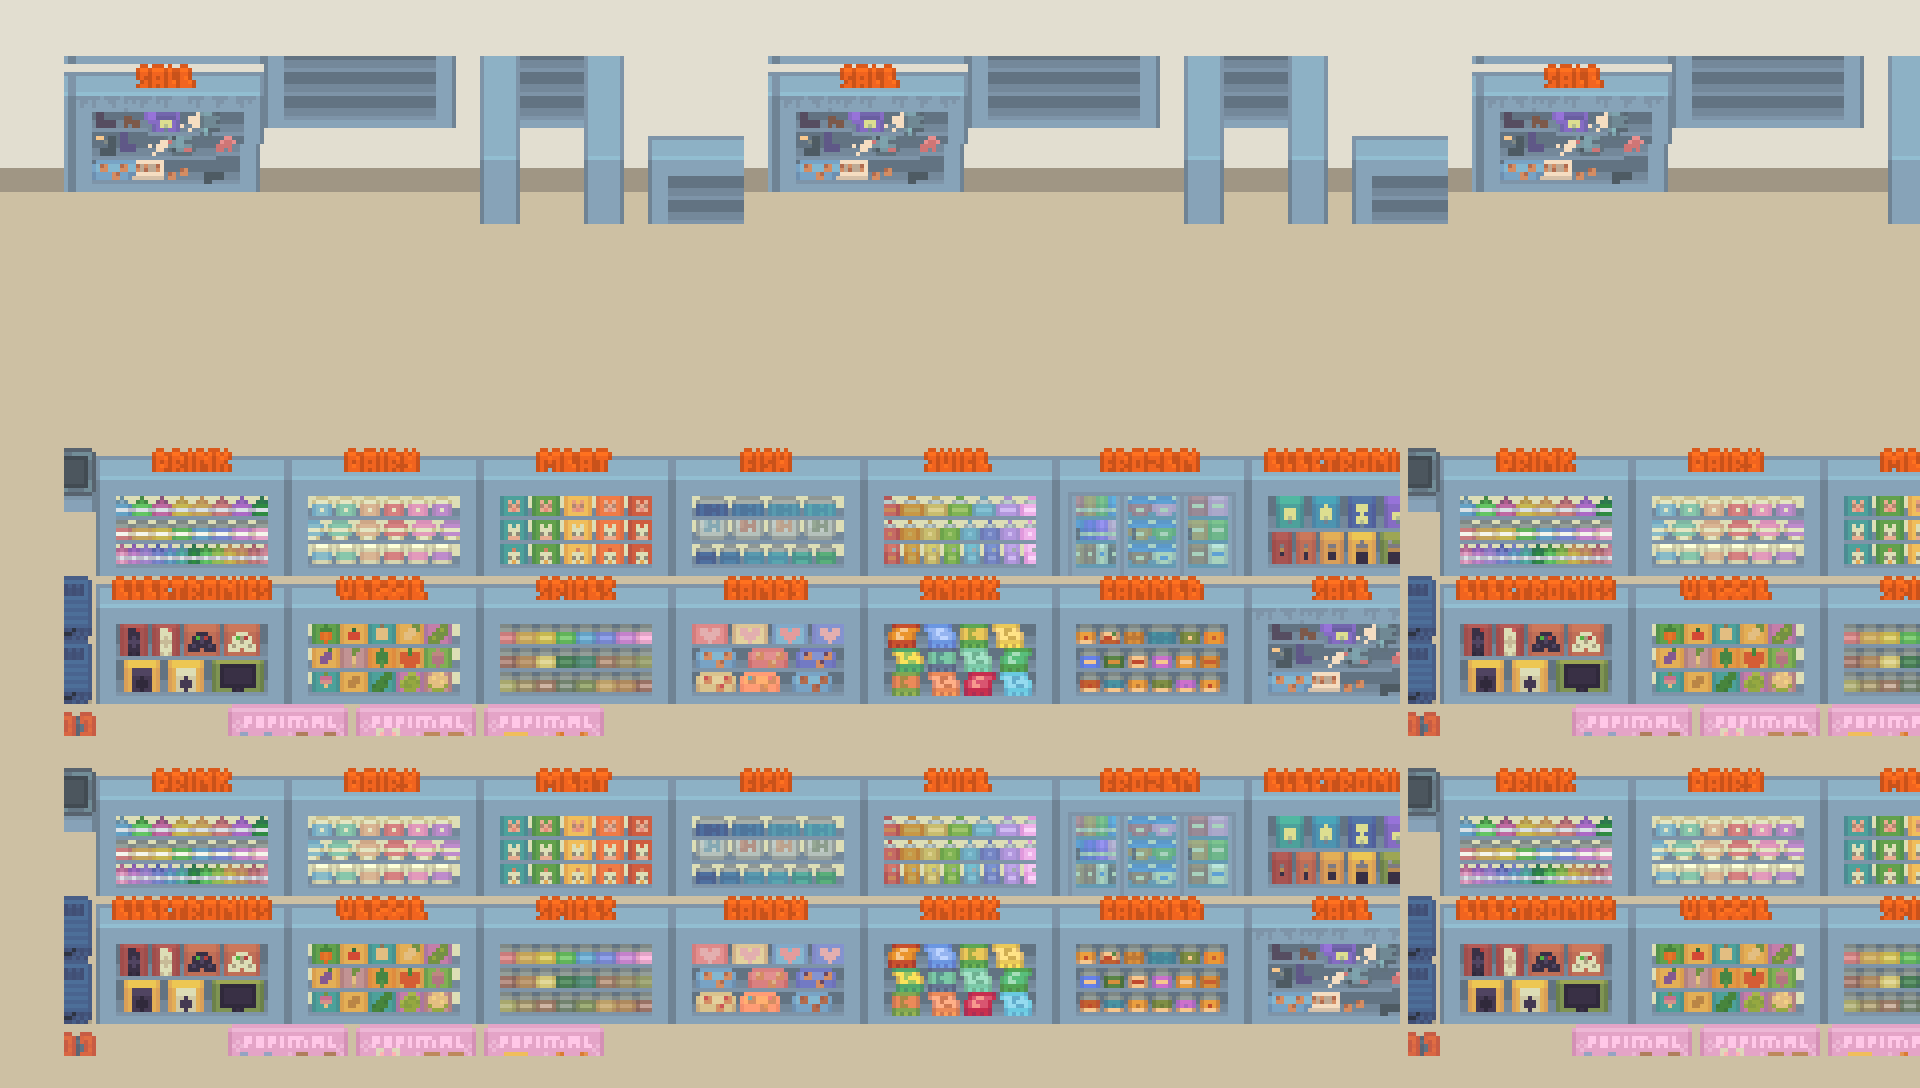
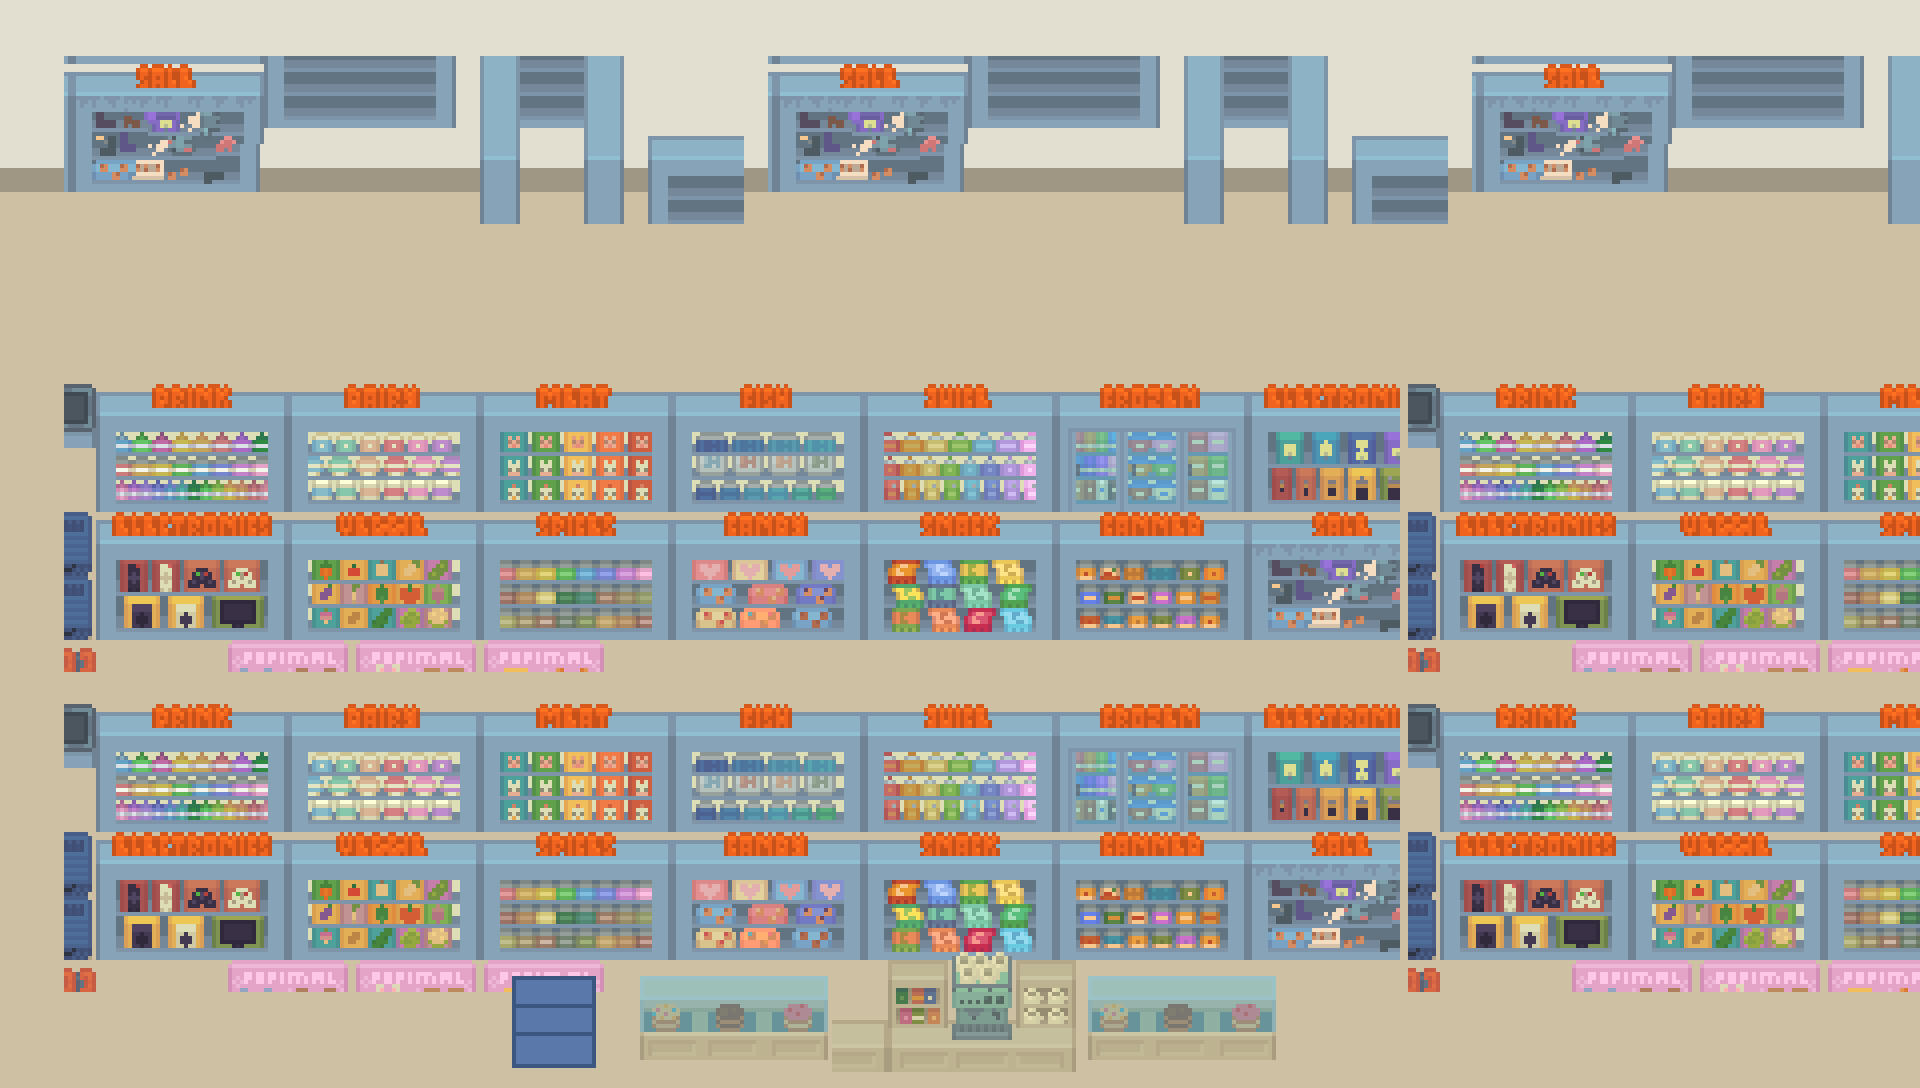
Rework scenes with real Cozy Interior assets + user feedback
- Add tools/cozy_lib.py: reusable asset library (floors/wallpapers validated by seamless-tiling detection, object auto-detection via row/column projection) so scenes stop being hand-drawn approximations
- 宿舍: rebuilt with real Interior furniture — patterned wallpaper with dado rail, four beds each with a nightstand, persian rug, sofa set around a coffee table, potted plants
- 练习室: real light-wood floor, full mirror wall with wooden frame, barre, real storage cabinets and plants
- 打歌后台: bulb-framed vanity mirrors over real tables with cosmetics, real chairs, outfit rack, cabinets, plants
- 咖啡厅: real chairs added above and below every table (seating)
- 便利店: checkout area added — register station, counters, staff chair, stacked baskets
- 汉江: bridge replaced with a twin-arch steel bridge modeled on the real Hangang Bridge (arches, hangers, piers in the water, deck lamps)

Claude-Session: https://claude.ai/code/session_018cnFEY1npoLJdJPk9oK87k

diff --git a/tools/cozy_lib.py b/tools/cozy_lib.py
@@ -1,0 +1,98 @@
+"""Cozy Interior / Town 素材库：统一裁切、拼装工具。
+坐标均以 16px 网格为准，来源于逐张网格标定。
+"""
+from PIL import Image
+
+ROOT = 'cozy'
+_cache = {}
+
+def sheet(path):
+    if path not in _cache:
+        _cache[path] = Image.open(f'{ROOT}/{path}').convert('RGBA')
+    return _cache[path]
+
+# ---- 常用表 ----
+WALL = 'interior/basics/wallpapers.png'
+RUGS = 'interior/basics/rugs.png'
+CURTAIN = 'interior/basics/curtains.png'
+BEDS = 'interior/furniture/beds.png'
+COUCH = 'interior/furniture/couches.png'
+CTABLE = 'interior/furniture/couchtables.png'
+TABLES = 'interior/furniture/tables.png'
+CHAIRS = 'interior/furniture/chairs.png'
+STORAGE = 'interior/furniture/storage.png'
+DECO = 'interior/furniture/decorations.png'
+SHELF = 'interior/furniture/wallshelves.png'
+KITCHEN = 'interior/furniture/kitchens_assembled.png'
+TOWN_INT = 'town/interior/interior.png'
+TOWN_TILES = 'town/tiles/tiles.png'
+
+def cut(path, x, y, w, h):
+    """按像素裁一块（不裁边）"""
+    return sheet(path).crop((x, y, x + w, y + h))
+
+def obj(path, x, y, w, h):
+    """裁一个道具并去掉四周透明边"""
+    c = cut(path, x, y, w, h)
+    b = c.getbbox()
+    return c.crop(b) if b else c
+
+def tile_fill(canvas, tile, x0, y0, x1, y1):
+    """用 tile 平铺一块矩形区域（像素坐标）"""
+    tw, th = tile.size
+    y = y0
+    while y < y1:
+        x = x0
+        while x < x1:
+            canvas.alpha_composite(tile, (x, y))
+            x += tw
+        y += th
+
+# ---- 地板（wallpapers.png 下部，16x16；坐标经无缝平铺检测验证）----
+FLOOR = {
+    'wood_warm':   (144, 576),
+    'wood_red':    (144, 624),
+    'wood_plain':  (256, 656),
+    'wood_dark':   (160, 592),
+    'wood_teal':   (192, 624),
+    'wood_olive':  (208, 624),
+    'wood_grey':   (176, 592),
+    'wood_light':  (256, 576),
+    'green_flat':  (288, 656),
+    'wood_brown':  (144, 656),
+}
+def floor(name):
+    x, y = FLOOR[name]
+    return cut(WALL, x, y, 16, 16)
+
+# ---- 墙纸（wallpapers.png 上部，16x32 一片）----
+WALLP = {
+    'stripe_rose':   (220, 128),
+    'blue_panel':    (364, 0),
+    'blue_stripe':   (364, 64),
+    'teal_panel':    (268, 288),
+    'cream_panel':   (316, 192),
+    'cream_wood':    (316, 160),
+    'grey_panel':    (316, 384),
+    'navy_wood':     (540, 32),
+    'plaid_teal':    (428, 256),
+}
+def wallpaper(name):
+    x, y = WALLP[name]
+    return cut(WALL, x, y, 16, 32)
+
+def room(cols, rows, floor_name, wall_name, wall_rows=3):
+    """生成一个带墙和地板的房间底"""
+    cv = Image.new('RGBA', (cols * 16, rows * 16), (0, 0, 0, 0))
+    f = floor(floor_name)
+    tile_fill(cv, f, 0, 0, cols * 16, rows * 16)
+    w = wallpaper(wall_name)
+    for tx in range(cols):
+        for i in range(0, wall_rows * 16, 32):
+            cv.alpha_composite(w, (tx * 16, i))
+    return cv
+
+def save(cv, path, scale=4):
+    out = cv.resize((cv.width * scale, cv.height * scale), Image.NEAREST)
+    out.save(path)
+    return out
